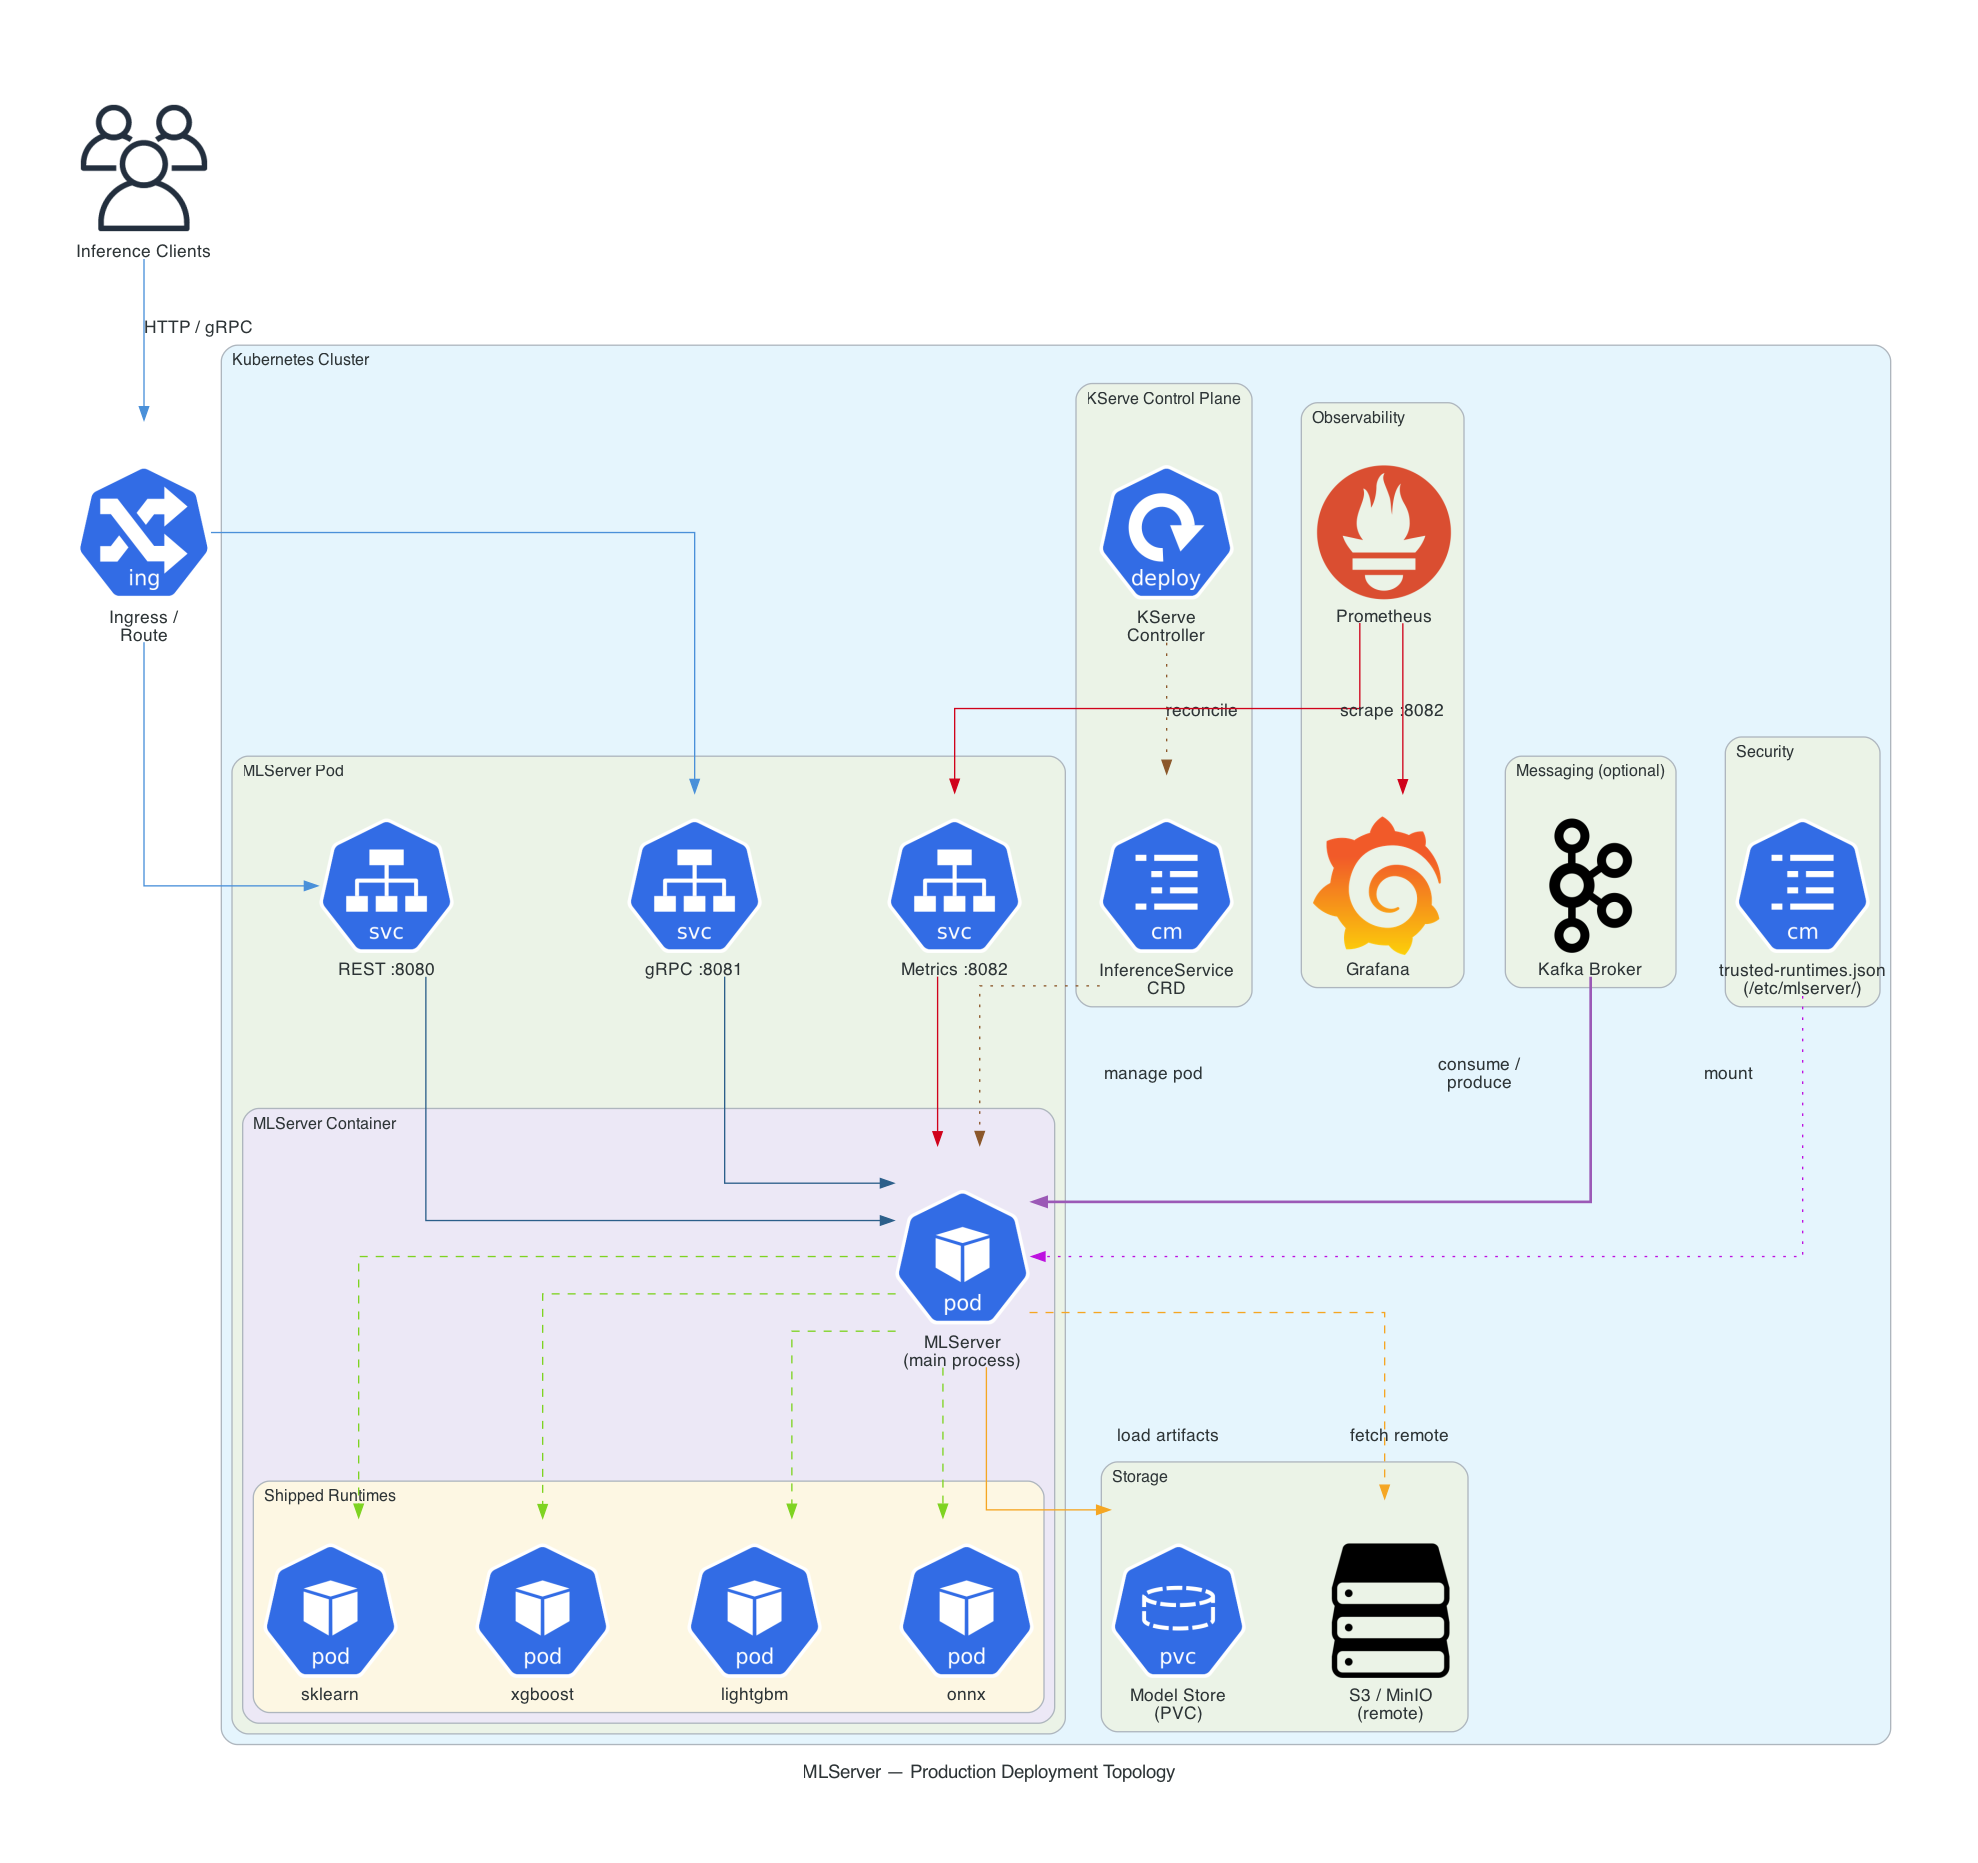
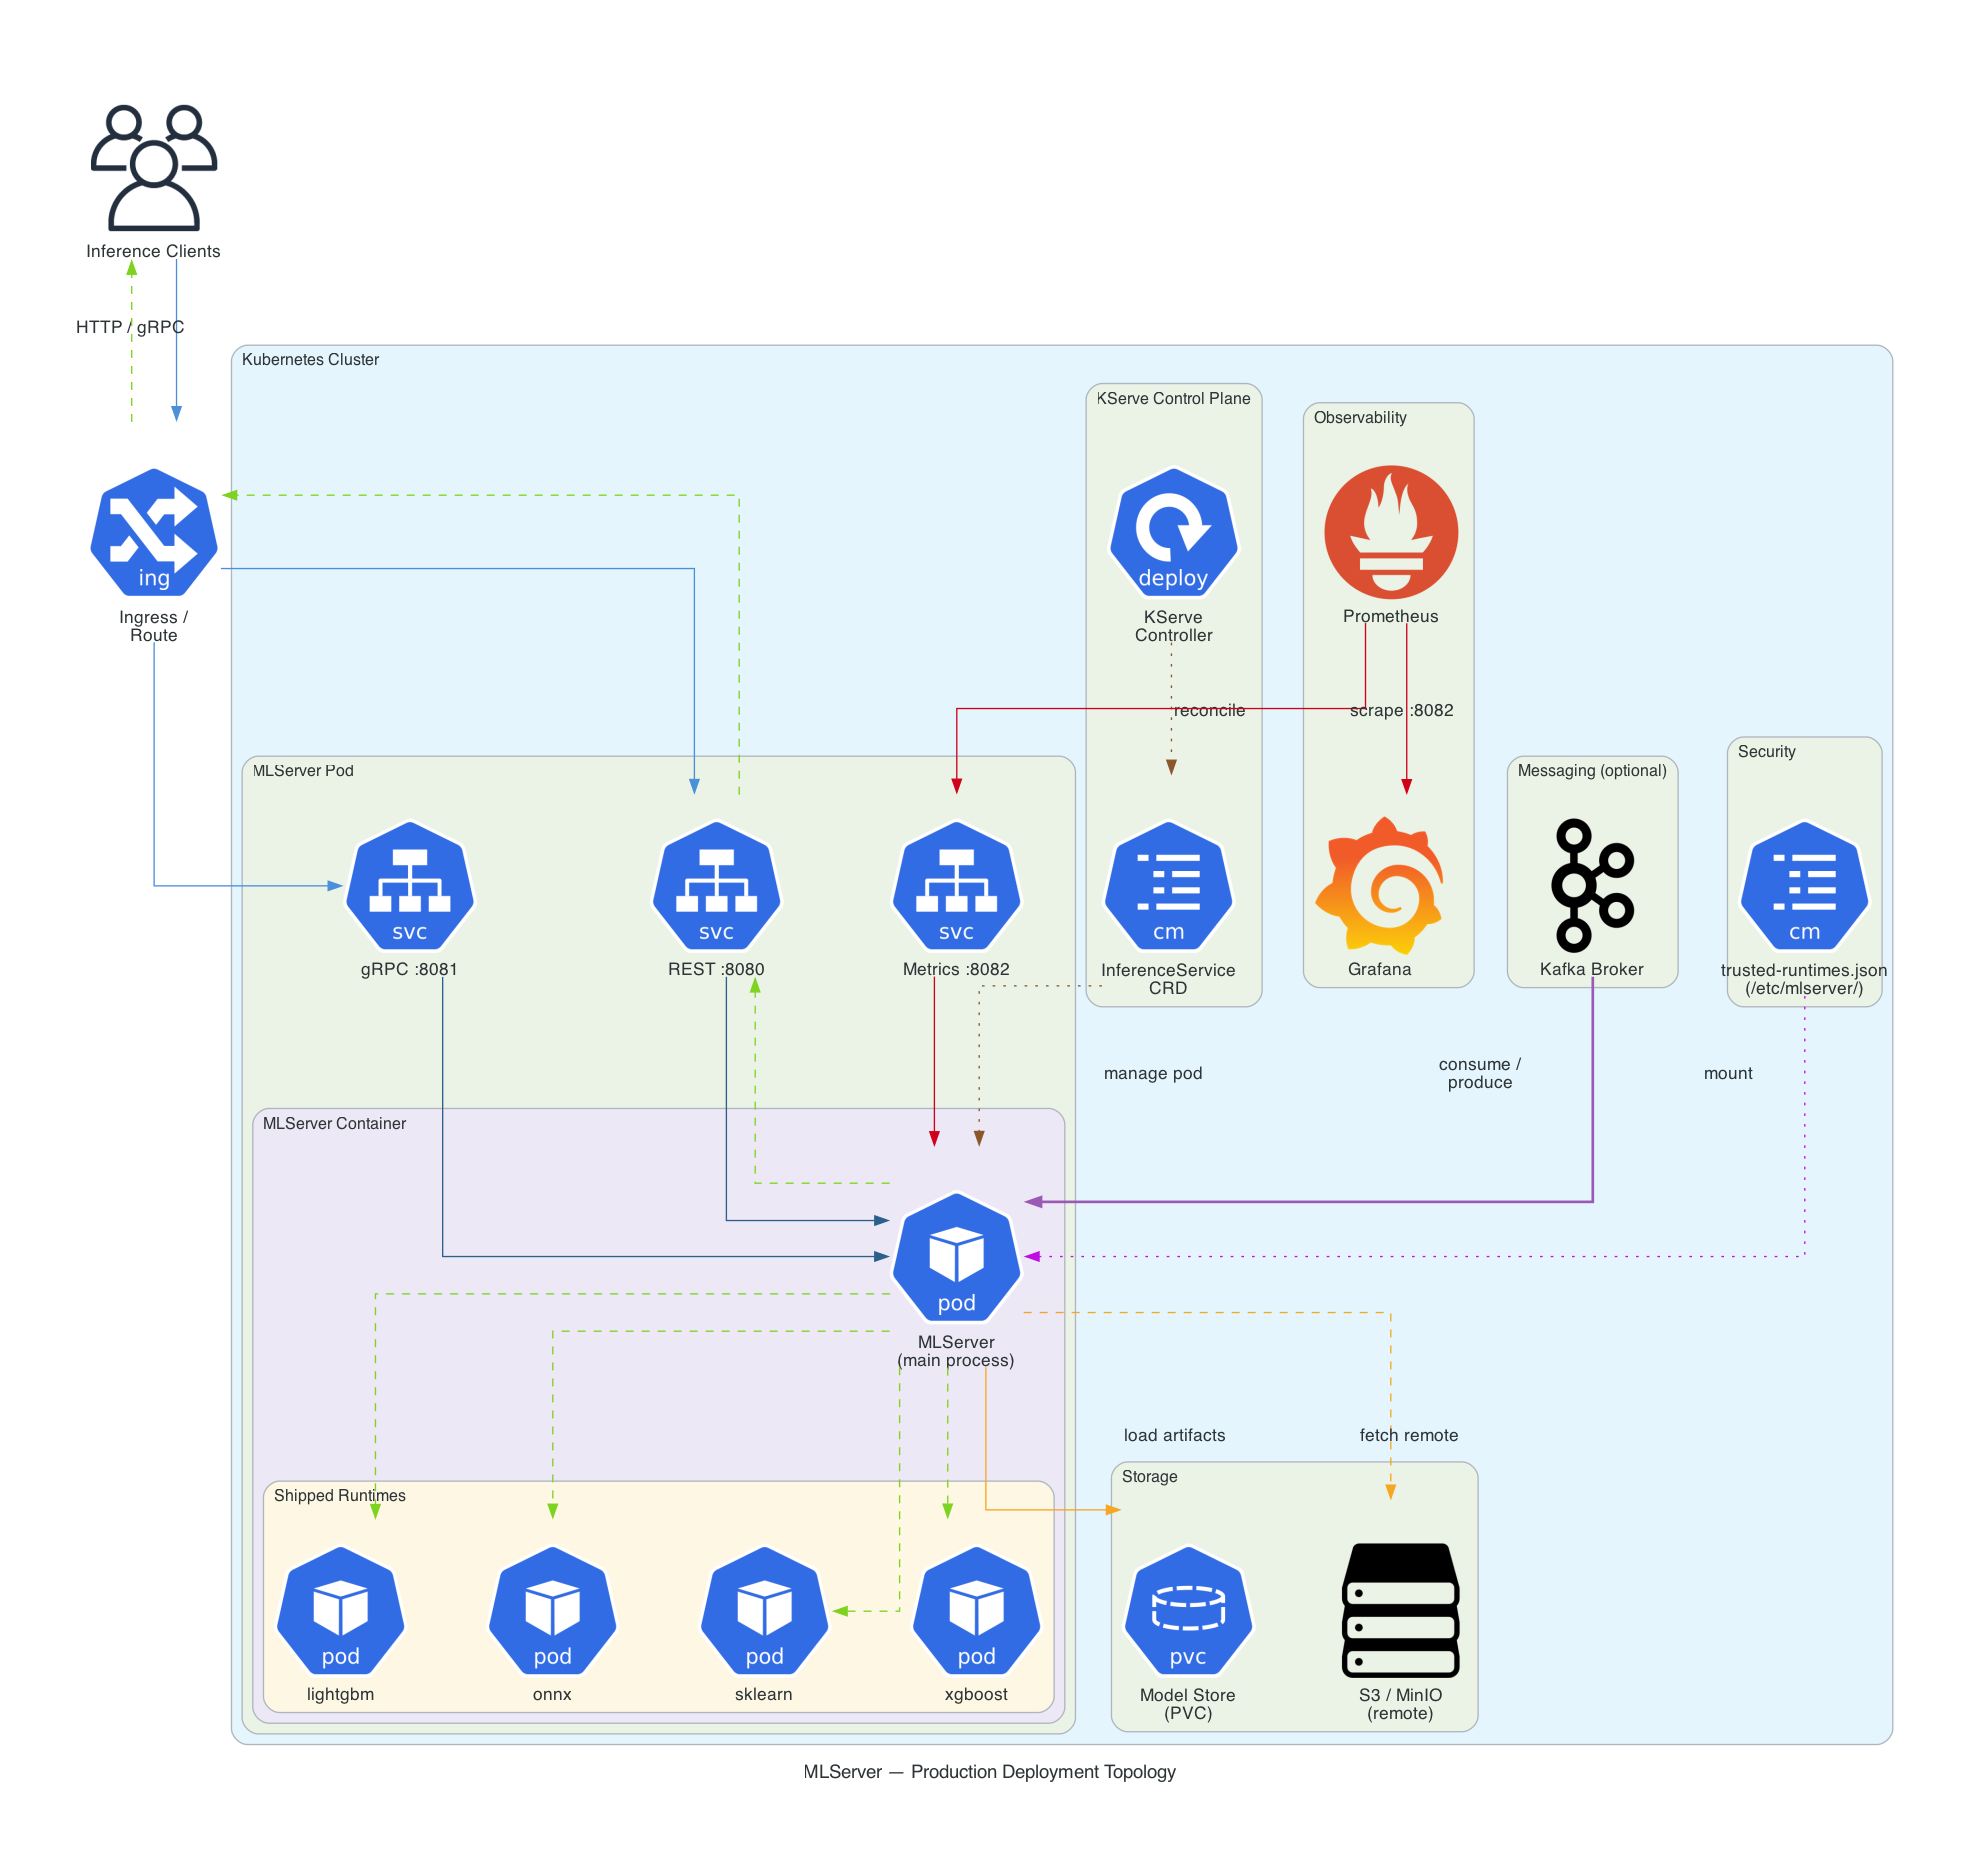
Align deployment topology PNG and GIF, reference only GIF in docs
- Add Prometheus → Grafana arrow to GIF (was in PNG only)
- Add response path arrows to PNG (was in GIF only)
- PNG and GIF now show identical nodes and arrows
- Reference only the animated GIF in deployment.md; PNG kept as
  static asset for PDF/slide use

diff --git a/docs/diagrams/deployment_topology_animated.html b/docs/diagrams/deployment_topology_animated.html
@@ -214,6 +214,9 @@
   <path d="M 720,165 L 480,275" class="flow-arrow flow-left arrow-red" marker-end="url(#ah-red)"/>
   <text x="630" y="200" class="arrow-label">scrape :8082</text>
 
+  <!-- Prometheus → Grafana -->
+  <path d="M 780,165 L 805,165" class="flow-arrow flow-right arrow-red" marker-end="url(#ah-red)"/>
+
   <!-- Kafka → MLServer -->
   <path d="M 952,200 L 952,400 L 445,425" class="flow-arrow flow-slow arrow-purple" marker-end="url(#ah-purple)"/>
   <text x="750" y="395" class="arrow-label">consume / produce</text>

diff --git a/docs/diagrams/build_animated_diagram.py b/docs/diagrams/build_animated_diagram.py
@@ -260,6 +260,9 @@ html = f"""<!DOCTYPE html>
 {arrow("M 720,165 L 480,275", "arrow-red", "flow-left", "ah-red",
        "scrape :8082", 630, 200)}
 
+  <!-- Prometheus → Grafana -->
+{arrow("M 780,165 L 805,165", "arrow-red", "flow-right", "ah-red")}
+
   <!-- Kafka → MLServer -->
 {arrow("M 952,200 L 952,400 L 445,425", "arrow-purple", "flow-slow", "ah-purple",
        "consume / produce", 750, 395)}

diff --git a/docs/diagrams/deployment_topology.py b/docs/diagrams/deployment_topology.py
@@ -96,3 +96,8 @@ with Diagram(
 
     # Security
     allowlist >> Edge(label="mount", color="#BD10E0", style="dotted") >> mlserver
+
+    # Response path
+    mlserver >> Edge(color="#7ED321", style="dashed") >> rest
+    rest >> Edge(color="#7ED321", style="dashed") >> ingress
+    ingress >> Edge(color="#7ED321", style="dashed") >> clients

diff --git a/docs/engineering/deployment.md b/docs/engineering/deployment.md
@@ -2,9 +2,7 @@
 
 This document covers how to deploy MLServer in different environments, from local development to production Kubernetes clusters.
 
-![Deployment Topology](../diagrams/deployment_topology.png)
-
-![Deployment Topology — Animated](../diagrams/deployment_topology_animated.gif)
+![Deployment Topology](../diagrams/deployment_topology_animated.gif)
 
 ---
 
